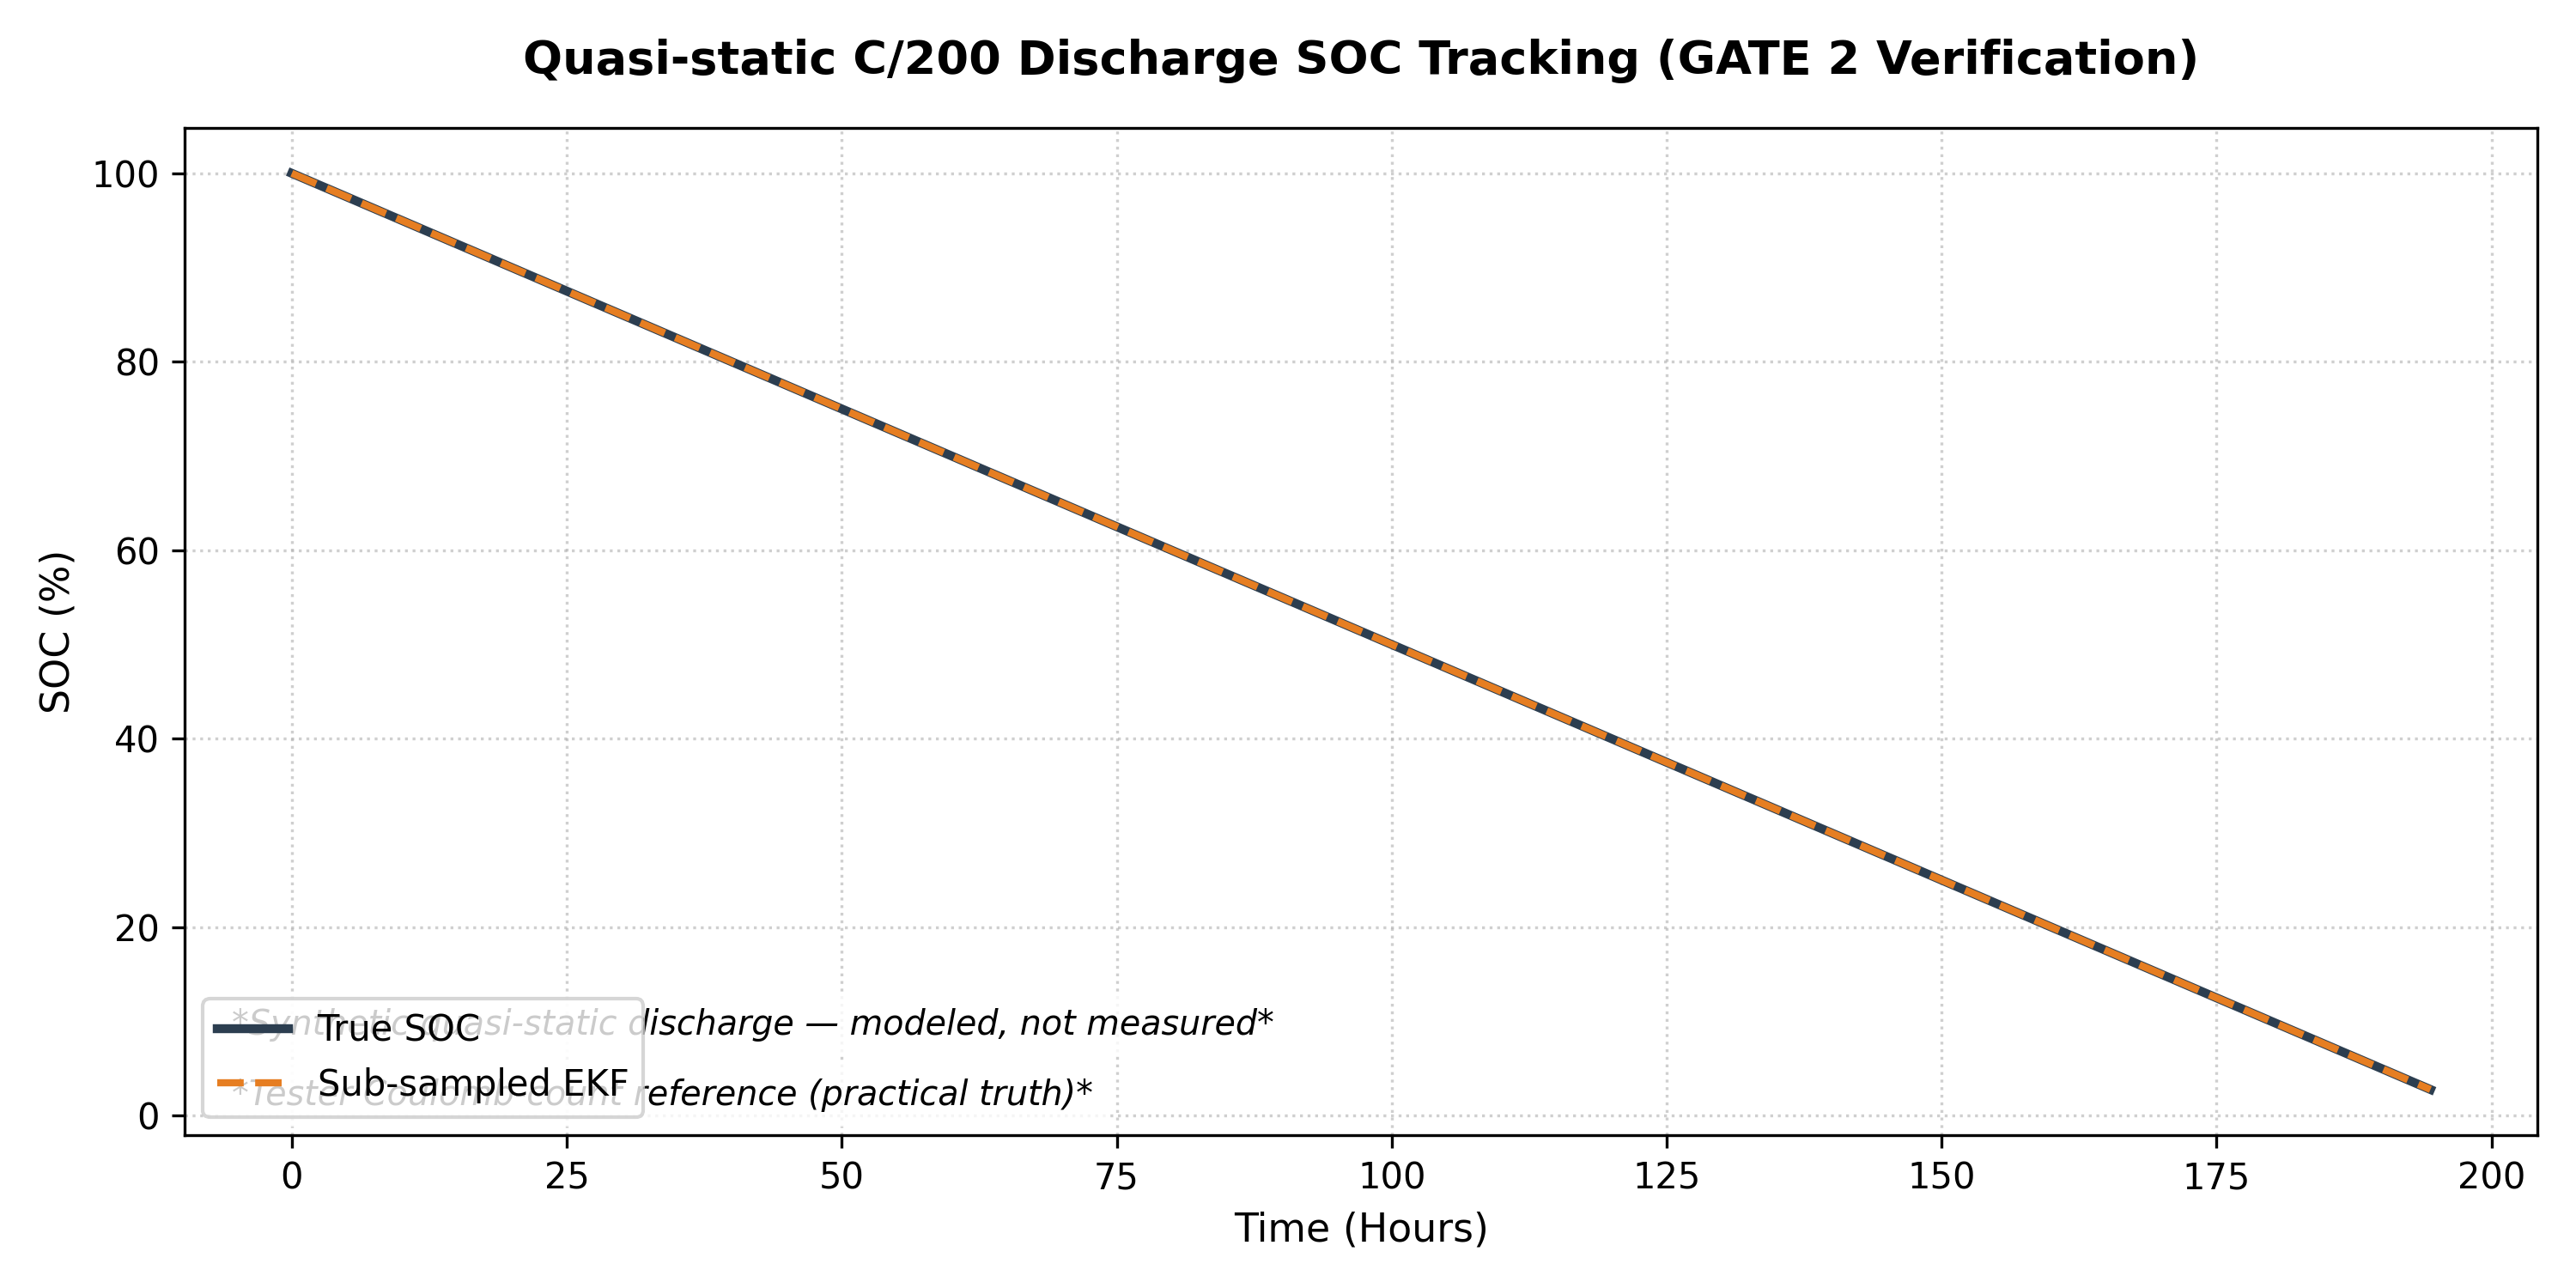
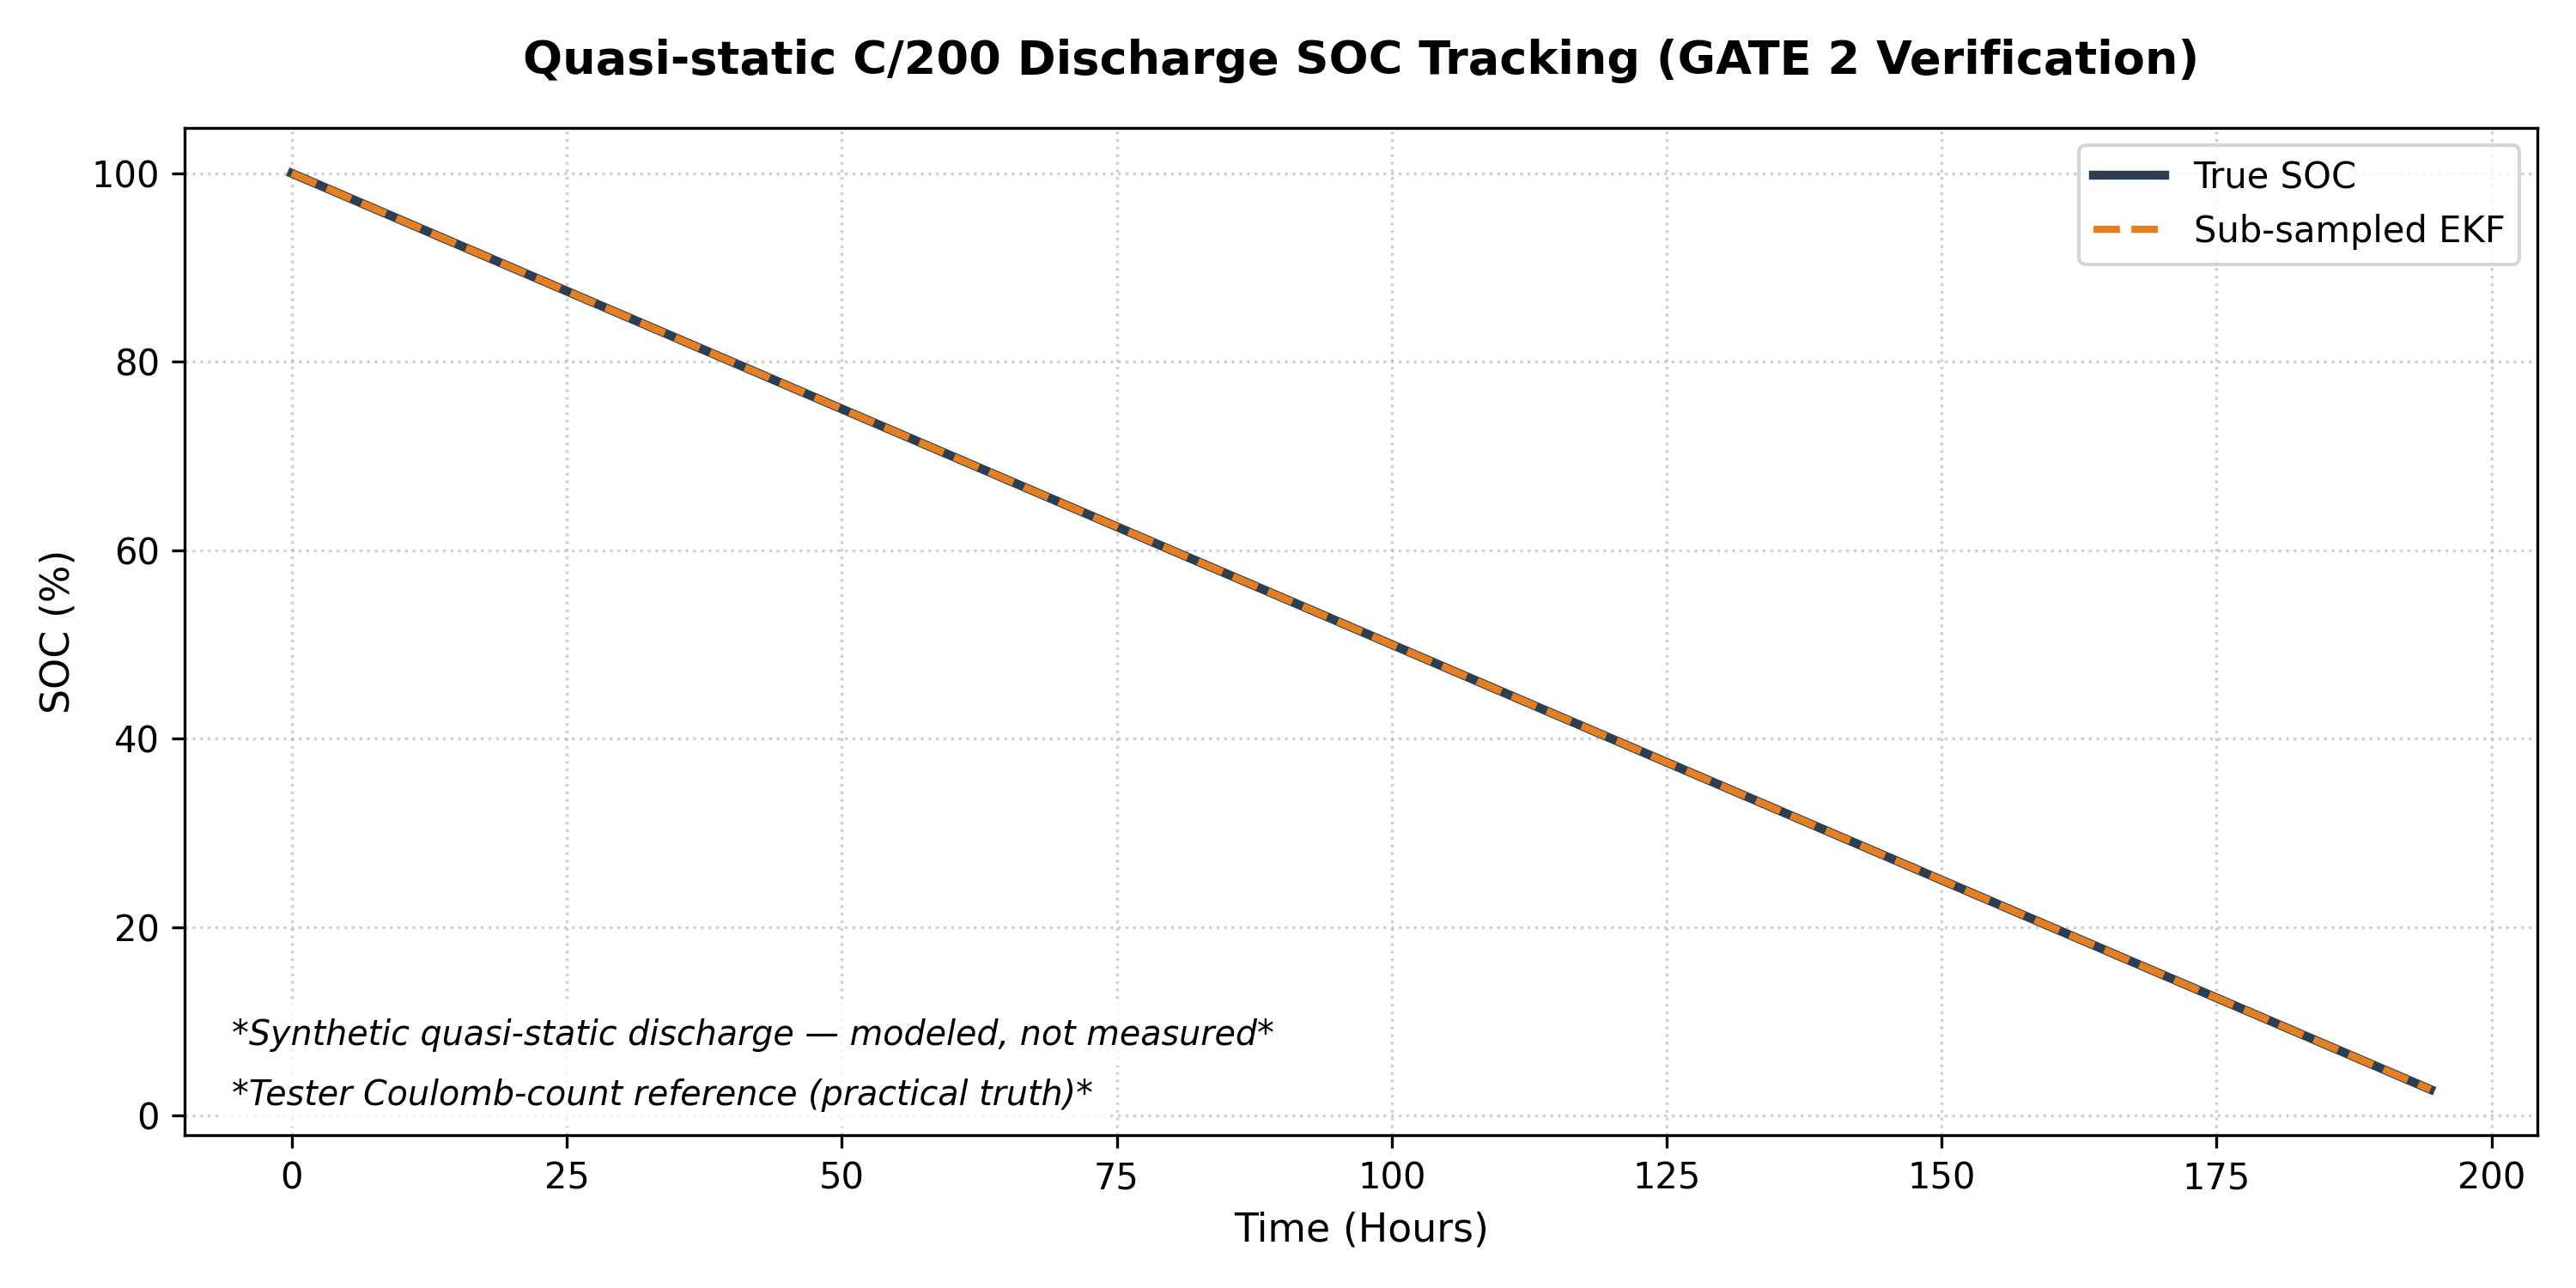
fix: move legends to prevent overlap with watermark text in all plots

Changed region(s): [[0.062, 0.7667, 0.496, 0.8587], [0.806, 0.1227, 0.992, 0.2147]]

diff --git a/reproduce_yun_audit.py b/reproduce_yun_audit.py
@@ -201,8 +201,8 @@ plt.title("Quasi-static C/200 Discharge SOC Tracking (GATE 2 Verification)", fon
 plt.xlabel("Time (Hours)", fontsize=11)
 plt.ylabel("SOC (%)", fontsize=11)
 plt.grid(True, linestyle=':', alpha=0.6)
-plt.legend(loc='lower left', frameon=True)
-plt.text(0.02, 0.1, "*Synthetic quasi-static discharge — modeled, not measured*", 
+plt.legend(loc='upper right', frameon=True)
+plt.text(0.02, 0.09, "*Synthetic quasi-static discharge — modeled, not measured*", 
          transform=plt.gca().transAxes, fontsize=9.5, style='italic', bbox=dict(facecolor='white', alpha=0.8, edgecolor='none'))
 plt.text(0.02, 0.03, "*Tester Coulomb-count reference (practical truth)*", 
          transform=plt.gca().transAxes, fontsize=9.5, style='italic', bbox=dict(facecolor='white', alpha=0.8, edgecolor='none'))
@@ -283,8 +283,8 @@ plt.xlabel("Time (Hours)", fontsize=11)
 plt.ylabel("SOC (%)", fontsize=11)
 plt.ylim([-5, 105])
 plt.grid(True, linestyle=':', alpha=0.6)
-plt.legend(loc='lower left', frameon=True)
-plt.text(0.02, 0.1, "*Tester Coulomb-count reference (practical truth)*", 
+plt.legend(loc='upper right', frameon=True)
+plt.text(0.02, 0.03, "*Tester Coulomb-count reference (practical truth)*", 
          transform=plt.gca().transAxes, fontsize=9.5, style='italic', bbox=dict(facecolor='white', alpha=0.8, edgecolor='none'))
 plt.tight_layout()
 plt.savefig('results/dynamic_tracking_divergence.png')
@@ -352,7 +352,7 @@ plt.xlabel("Sampling Interval Δt (seconds, Log Scale)", fontsize=11)
 plt.ylabel("SOC RMSE (%)", fontsize=11)
 plt.grid(True, which="both", linestyle=':', alpha=0.6)
 plt.legend(loc='upper left', frameon=True)
-plt.text(0.02, 0.15, "*Tester Coulomb-count reference (practical truth)*", 
+plt.text(0.02, 0.03, "*Tester Coulomb-count reference (practical truth)*", 
          transform=plt.gca().transAxes, fontsize=9.5, style='italic', bbox=dict(facecolor='white', alpha=0.8, edgecolor='none'))
 plt.tight_layout()
 plt.savefig('results/safe_dt_curve.png')